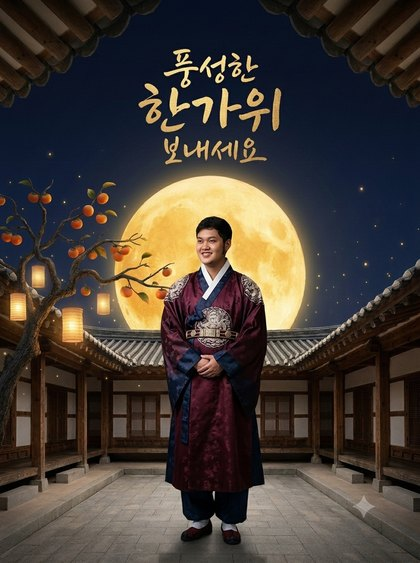
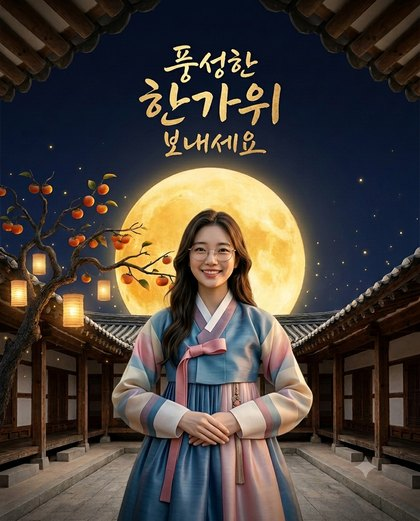
chuseok-hanbok-card: 예시를 AI 퍼소나 실행(12.7초, 928x1152)으로 교체
Claude-Session: https://claude.ai/code/session_01QgfNhor61dhgfR3v4w9z3s

diff --git a/chuseok-hanbok-card/index.html b/chuseok-hanbok-card/index.html
@@ -1,8 +1,8 @@
 <!doctype html><html lang="ko"><head><meta charset="utf-8">
 <meta name="viewport" content="width=device-width,initial-scale=1">
-<title>추석 인사 카드, 제미나이 무료로 15초 | AI TIGER MASK</title>
+<title>추석 인사 카드, 제미나이 무료로 12.7초 | AI TIGER MASK</title>
 <meta name="description" content="내 사진 한 장과 추석 사진 한 장을 제미나이 무료 계정에 올리고 프롬프트를 붙여 넣으면 한복 입은 추석 인사 카드가 나옵니다. 추석 사진과 프롬프트를 그대로 드립니다.">
-<meta property="og:title" content="추석 인사 카드, 제미나이 무료로 15초">
+<meta property="og:title" content="추석 인사 카드, 제미나이 무료로 12.7초">
 <meta property="og:description" content="사진 두 장 + 프롬프트 복붙 한 번. 추석 사진과 프롬프트 그대로 드려요.">
 <style>
 :root{--o:#d97757;--ink:#1a1610;--bg:#f4efe6;--dim:#6b665e}
@@ -50,9 +50,9 @@ header .sub{margin-top:12px;color:#c9c3b8;font-size:14px}
 </style>
 </head><body>
 <header><div class="b">AI TIGER MASK</div>
-<h1>추석 인사 카드,<br>제미나이 무료로 15초</h1>
+<h1>추석 인사 카드,<br>제미나이 무료로 12.7초</h1>
 <div class="sub">2026년 9월 24일 제미나이 웹 무료 계정으로 직접 만들어 본 순서 그대로</div>
-<div class="chips"><span class="chip">사진 <b>2장</b></span><span class="chip">프롬프트 <b>복붙 1번</b></span><span class="chip">보내고 <b>15초</b></span></div>
+<div class="chips"><span class="chip">사진 <b>2장</b></span><span class="chip">프롬프트 <b>복붙 1번</b></span><span class="chip">보내고 <b>12.7초</b></span></div>
 </header>
 <div class="wrap">
 <div class="who"><h2>한 줄 요약</h2>
@@ -60,7 +60,7 @@ header .sub{margin-top:12px;color:#c9c3b8;font-size:14px}
 
 <div class="pair">
 <figure><img src="ex_before.jpg" alt="평소 사진"><figcaption>평소 사진</figcaption></figure>
-<figure><img src="ex_after.jpg" alt="제미나이 결과"><figcaption>보내고 15초 뒤</figcaption></figure>
+<figure><img src="ex_after.jpg" alt="제미나이 결과"><figcaption>보내고 12.7초 뒤</figcaption></figure>
 </div>
 
 <div class="lead"><h2>① 추석 사진 받기</h2><p>두 번째로 올릴 사진입니다. 배경과 글씨를 이 사진이 정합니다</p></div>
@@ -79,9 +79,9 @@ header .sub{margin-top:12px;color:#c9c3b8;font-size:14px}
 <div class="rule"><div class="n">2</div><div><h3>플러스 누르고 사진 두 장을 한 번에</h3>
 <p>입력창 왼쪽 <b>+</b> → <b>포토</b>. <b>내 사진을 먼저</b>, 추석 사진을 두 번째로 골라 같이 올립니다. 프롬프트가 첫 번째 사진을 사람으로, 두 번째 사진을 배경으로 읽기 때문에 순서가 중요합니다. 처음 올릴 때 이미지 사용 동의 창이 뜨면 <b>동의</b>를 누르세요.</p></div></div>
 <div class="rule"><div class="n">3</div><div><h3>프롬프트 붙여 넣고 보내기</h3>
-<p>②에서 복사한 문장을 붙여 넣고 보내기(↑). 제 계정에서는 보내고 결과 이미지가 뜰 때까지 15초 걸렸습니다.</p></div></div>
+<p>②에서 복사한 문장을 붙여 넣고 보내기(↑). 제 계정에서는 보내고 결과 이미지가 뜰 때까지 12.7초 걸렸습니다(같은 방법으로 다른 사진을 넣었을 땐 15초).</p></div></div>
 <div class="rule"><div class="n">4</div><div><h3>원본으로 저장</h3>
-<p>결과 아래 줄의 <b>↓(원본 크기 이미지 다운로드)</b> 버튼을 누르면 원본(제 결과는 896 x 1200)이 저장됩니다. 카톡으로 그대로 보내면 됩니다.</p></div></div>
+<p>결과 아래 줄의 <b>↓(원본 크기 이미지 다운로드)</b> 버튼을 누르면 원본(제 결과는 928 x 1152)이 저장됩니다. 카톡으로 그대로 보내면 됩니다.</p></div></div>
 </div>
 
 <div class="lead"><h2>잘 되는 사진, 안 되는 사진</h2><p>같은 추석 사진, 같은 프롬프트로 사진만 바꿔 봤습니다</p></div>
@@ -98,7 +98,7 @@ header .sub{margin-top:12px;color:#c9c3b8;font-size:14px}
 <li>다른 사람 사진은 그 사람 허락을 받고 쓰세요. 올릴 때 뜨는 동의 창도 같은 내용입니다.</li>
 </ul></div>
 
-<div class="src">예시 인물 사진: <a href="https://www.pexels.com/photo/17503453/">Pexels 17503453</a> · 가족 사진: <a href="https://www.pexels.com/photo/32103394/">Pexels 32103394</a> · 결과 이미지: 제미나이 웹 무료 계정(2026-09-24) · 추석 사진: AI TIGER MASK 제작(AI 생성 이미지), 추석 인사 카드 만들 때 자유롭게 쓰세요.</div>
+<div class="src">예시 인물: AI TIGER MASK 의 AI 퍼소나(실존 인물 아님) · 가족 사진: <a href="https://www.pexels.com/photo/32103394/">Pexels 32103394</a> · 결과 이미지: 제미나이 웹 무료 계정(2026-09-24) · 추석 사진: AI TIGER MASK 제작(AI 생성 이미지), 추석 인사 카드 만들 때 자유롭게 쓰세요.</div>
 <div class="foot"><a href="../">AI TIGER MASK 홈</a></div>
 </div>
 <script>function cp(){const t=document.getElementById("p").innerText;(navigator.clipboard?navigator.clipboard.writeText(t):Promise.reject()).then(()=>{document.querySelector(".copy").textContent="복사됨"}).catch(()=>{const r=document.createRange();r.selectNodeContents(document.getElementById("p"));const s=getSelection();s.removeAllRanges();s.addRange(r);document.execCommand("copy");document.querySelector(".copy").textContent="복사됨"})}</script>
